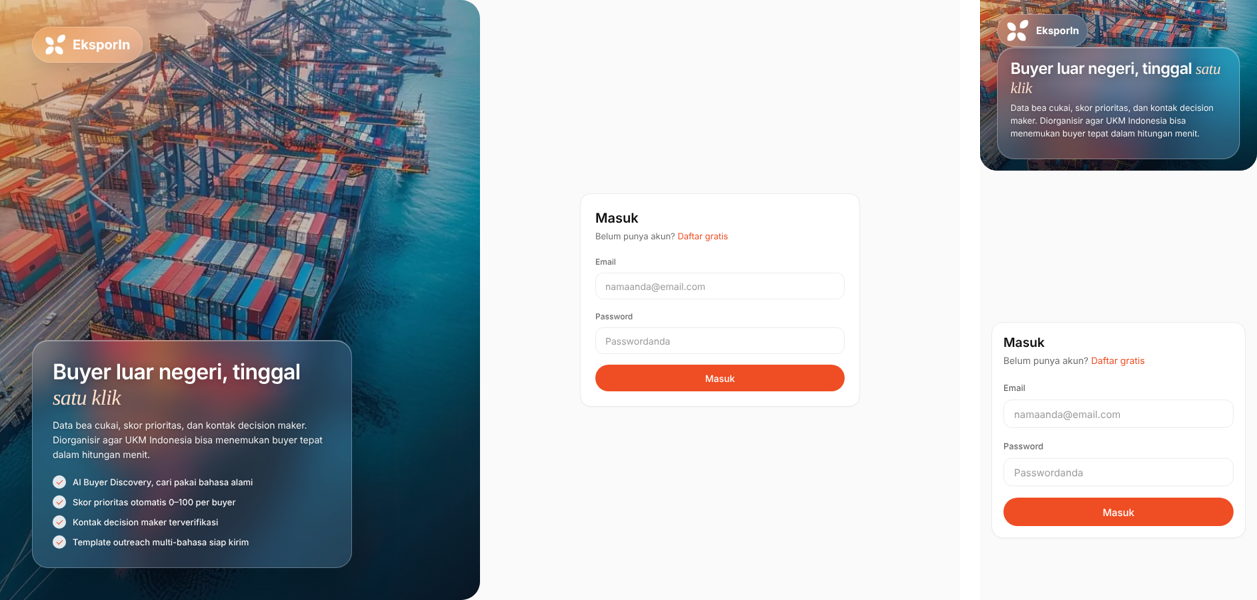
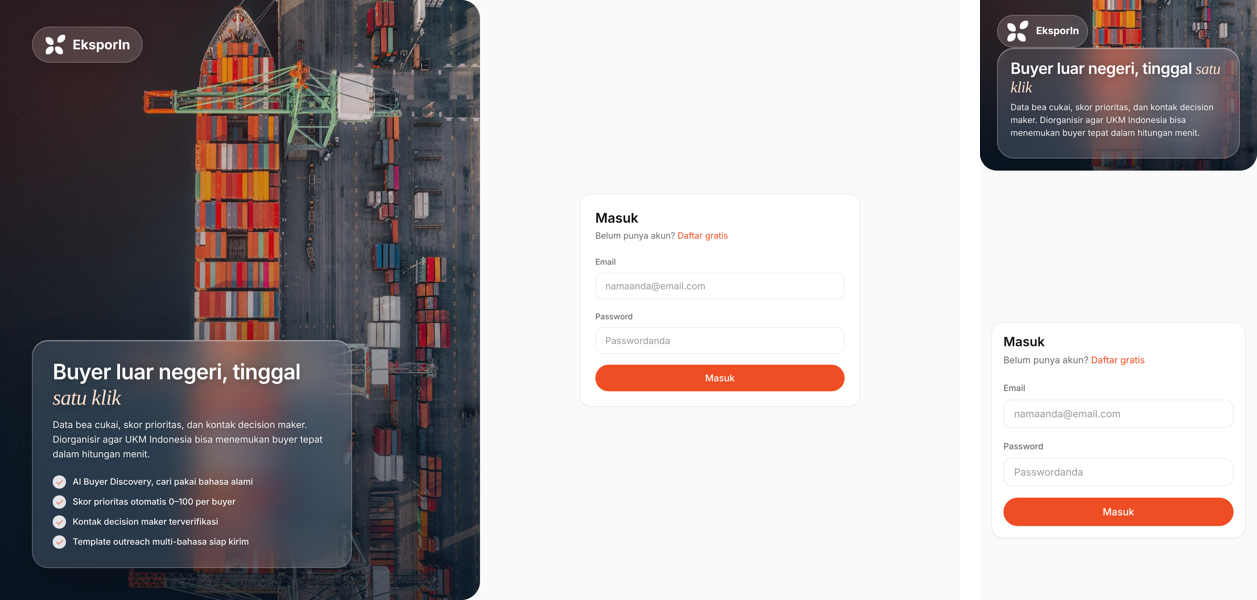
fix: gambar login resolusi penuh

diff --git a/public/app.js b/public/app.js
@@ -1046,7 +1046,7 @@ route(/^\/quick-search$/, async (app, m, params) => {
 // ================= auth =================
 function authHero() {
   return `<div class="auth-hero">
-    <img class="auth-bg" src="/img/auth-bg.webp" alt="" aria-hidden="true" decoding="async">
+    <img class="auth-bg" src="/img/auth-bg.jpg" alt="" aria-hidden="true" decoding="async">
     <div class="auth-bg-tint"></div>
     <div class="auth-brand">${LOGO_SVG.replace(/#ef4d23/g, '#fff')} <span>EksporIn</span></div>
     <div class="auth-copy auth-glass">

diff --git a/public/styles.css b/public/styles.css
@@ -440,7 +440,7 @@ table.tbl { width: 100%; border-collapse: collapse; }
   object-fit: cover;
   z-index: 0;
   transform: scale(1.02);
-  object-position: center 40%; /* port cranes + ship deck (public/img/auth-bg.webp) */
+  object-position: 45% center; /* ship + quay crane, top-down (public/img/auth-bg.jpg, 1200x1500 original) */
 }
 .auth-bg-tint {
   position: absolute; inset: 0;
